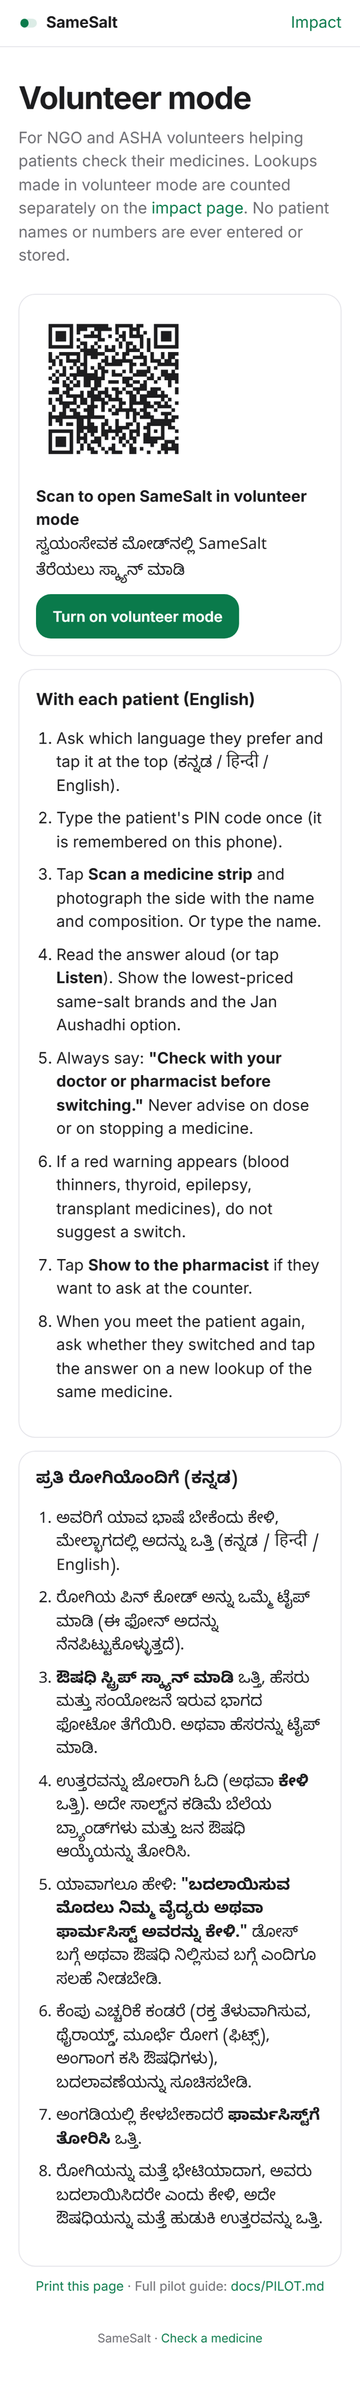
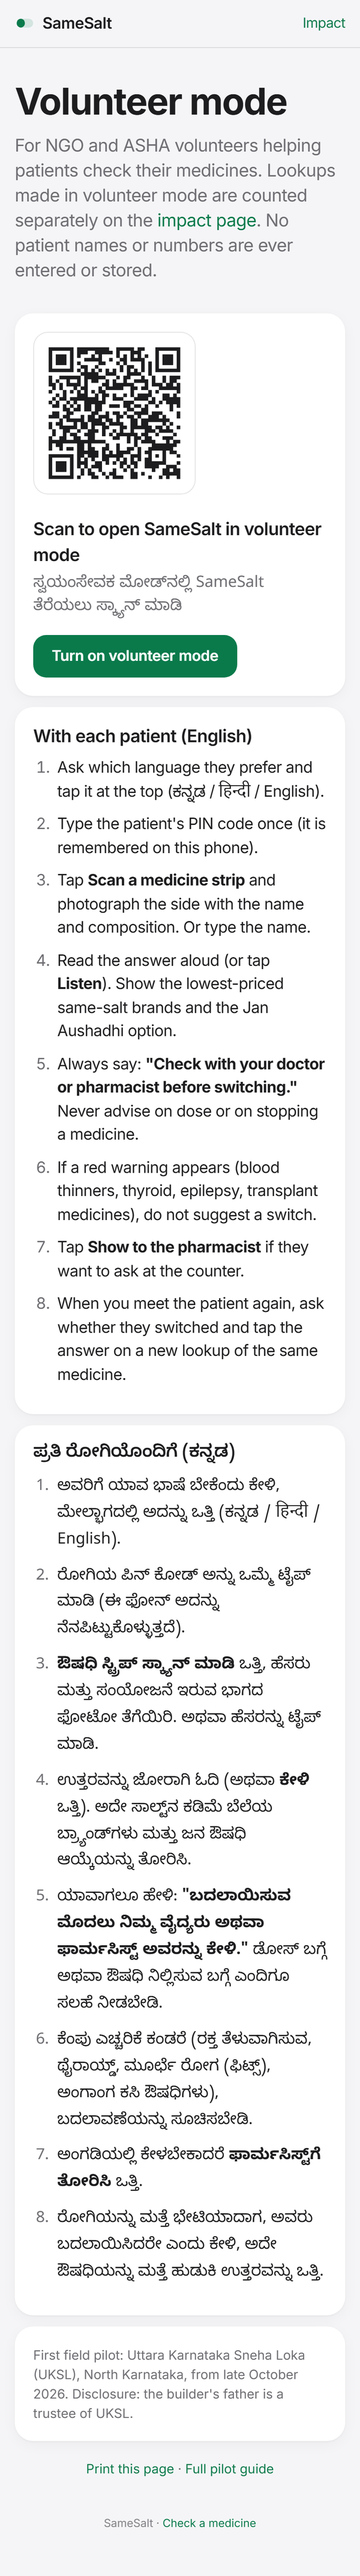
docs: Jan Aushadhi data loaded (dates, counts), demo video, new screenshots
Claude-Session: https://claude.ai/code/session_01YJSSSXgu8NU7GSSJzc8DWD

diff --git a/README.md b/README.md
@@ -2,11 +2,13 @@
 
 **Photograph a medicine strip (or type its name) in English, ಕನ್ನಡ or हिन्दी. SameSalt shows every brand with exactly the same salt, strength and form, ranked by price, the Jan Aushadhi generic and its government MRP, and the nearest Jan Aushadhi Kendra. Every lookup is counted anonymously on a public impact page.**
 
-**Live app:** https://samesalt-agent.samesalt-worker.workers.dev · **Impact dashboard:** https://samesalt-agent.samesalt-worker.workers.dev/impact · **Volunteer mode + QR:** https://samesalt-agent.samesalt-worker.workers.dev/volunteer
+**Demo video (2:37):** https://youtu.be/FBDnSkhKEH0 · **Live app:** https://samesalt-agent.samesalt-worker.workers.dev · **Impact dashboard:** https://samesalt-agent.samesalt-worker.workers.dev/impact · **Volunteer mode + QR:** https://samesalt-agent.samesalt-worker.workers.dev/volunteer
 
 Entry for **Code for a Billion — Bharat Agentic-AI Hackathon 2026**, Health track ([submission #24](https://github.com/karlmehta/code-for-a-billion/issues/24)). Built in **AgentFoundry** ([how](#how-agentfoundry-was-used)). Field pilot planned with **Uttara Karnataka Sneha Loka (UKSL)**, North Karnataka, from late October 2026 ([pilot guide](docs/PILOT.md)).
 
-![SameSalt on a phone: home, the same-salt list for Dolo 650, and the answer in Kannada](docs/img/screens.png)
+![SameSalt on a phone: home, the result for Dolo 650 with the saving, and the answer in Kannada](docs/img/screens.png)
+
+[![Watch the 2:37 demo on YouTube](https://img.youtube.com/vi/FBDnSkhKEH0/hqdefault.jpg)](https://youtu.be/FBDnSkhKEH0)
 
 ---
 
@@ -24,10 +26,10 @@ The government's own Jan Aushadhi Sugam app searches generics by name. SameSalt 
 1. **Scan or type.** A photo of the strip is read by a vision model (brand, salts, strengths, form, release type). Typed names work in any script (`ಡೋಲೋ 650`, `पैन 40 टैबलेट`, `dolo650`).
 2. **Exact-composition match.** Two products match **only** if salts, strengths, dosage form and release type are all identical (`amoxicillin:500mg+clavulanic acid:125mg|tablet`). 650 mg never matches 500 mg; SR never matches plain; paracetamol + caffeine never matches paracetamol.
 3. **Ranked by price per tablet**, with "save up to ₹X on one pack".
-4. **Jan Aushadhi generic + official MRP** for the same key, from the official PMBJP list.
-5. **Nearest Jan Aushadhi Kendra** by PIN code or location, from the official Kendra list.
+4. **Jan Aushadhi generic + official MRP** for the same key, from the official PMBJP product list (downloaded 11 Oct 2026). Dolo 650 → Paracetamol Tablets IP 650 mg, ₹15.47 for 15.
+5. **Nearest Jan Aushadhi Kendra** by PIN code, from the official list of 19,986 Kendras (downloaded 12 Oct 2026), shown by Kendra code and address.
 6. **Answer in English, Kannada or Hindi**, with a Listen button (device text-to-speech).
-7. **Safety:** same salt + strength + form only; every answer ends with "check with your doctor or pharmacist before switching"; **never** dosage advice; narrow-therapeutic-index medicines (warfarin, thyroxine, antiepileptics, transplant drugs, lithium, digoxin…) get a red warning and **no** cheaper list.
+7. **Safety:** same salt + strength + form only; every answer ends with "check with your doctor or pharmacist before switching"; **never** dosage advice; narrow-therapeutic-index medicines (warfarin, thyroxine, antiepileptics, transplant drugs, lithium, digoxin…) get a red warning and **no** cheaper option of any kind (no brand list, no Jan Aushadhi price).
 8. **Show to the pharmacist** card, **"did you switch?"** tap, and **volunteer mode** with a printable QR page for NGO volunteers.
 
 ## Architecture
@@ -64,15 +66,15 @@ The agent is a **fixed, auditable tool plan** — `read_strip → identify_medic
 | `public/` | the web app, `/impact`, `/volunteer` |
 | `data/` | builds D1 seed SQL from SameSalt's database and the official PMBJP lists |
 | `.codenow/` | AgentFoundry project: agent manifest, prompts, evals + results, run traces |
-| `tools/demo-video/` | records the live app on a phone viewport (flagged as test traffic) and composes the captioned demo video |
+| `tools/demo-video/` | `record.py` records the live app on a phone viewport (2x DevTools screencast, flagged as test traffic); `compose.py` lays out the cards and captions in HTML and assembles the [demo video](https://youtu.be/FBDnSkhKEH0) with ffmpeg |
 
 **Cost: ₹0.** Cloudflare Workers + D1 + Workers AI free allocations; no paid keys. If the daily free vision quota runs out, the phone reads the photo itself with Tesseract.js and the same tools run on that text.
 
 ## Accuracy (tests and evals)
 
-- **Unit tests:** `node --import ./test/register-md.mjs --test test/normalize.test.mjs test/tools.test.mjs` → **26/26 pass** — strength normalisation (650 mg = 0.65 g = 650 MG), multi-salt order and spelling (Amoxycillin/Amoxicillin), SR vs plain, combinations vs single salts, NTI handling, PIN/location Kendra search, savings, the three-language answer, and the whole agent with a stubbed vision model. `python test/test_build_ja.py` checks the PMBJP-name parser.
+- **Unit tests:** `node --import ./test/register-md.mjs --test test/normalize.test.mjs test/tools.test.mjs` → **29/29 pass** — strength normalisation (650 mg = 0.65 g = 650 MG), multi-salt order and spelling (Amoxycillin/Amoxicillin), SR vs plain, combinations vs single salts, NTI handling, PIN/location Kendra search, savings, the three-language answer, typed generic combinations ("amoxicillin clavulanic acid 500 125 tablet"), and the whole agent with a stubbed vision model. `python test/test_build_ja.py` checks the PMBJP-name parser.
 - **Key parity:** the JavaScript key builder reproduces the Python pipeline's key on **2,000/2,000** randomly sampled database rows.
-- **End-to-end evals against the live deployment** (`node evals/run_evals.mjs`, results in [`evals/RESULTS.md`](evals/RESULTS.md)): **23/23** — 15 strip photos, 3 deliberately hard photos (heavy blur, cropped, a brand not in the database, which is matched by its printed composition) and 5 typed queries including Kannada and Hindi script. Median latency ≈ 1.7-2.7 s per lookup. One earlier run had a transient failure on the very first request after a deploy; the app and the eval runner now retry once.
+- **End-to-end evals against the live deployment** (`node evals/run_evals.mjs`, results in [`evals/RESULTS.md`](evals/RESULTS.md)): **23/23** — 15 strip photos, 3 deliberately hard photos (heavy blur, cropped, a brand not in the database, which is matched by its printed composition) and 5 typed queries including Kannada and Hindi script. Last run 12 Oct 2026, after the Jan Aushadhi data was loaded: 23/23, median 2.4 s per lookup. One earlier run had a transient failure on the very first request after a deploy; the app and the eval runner now retry once.
 - **Prompt eval in AgentFoundry:** the `understand_text` prompt passes **12/12** cases (Kannada/Hindi/Hinglish brands, "no medicine" text, prompt injection, JSON-only) on AF's served model.
 - **Honest limits:** all eval photos are **synthetic renders** (`evals/render_strips.py`), cleaner than real foil strips under shop lighting; real-world accuracy will be lower and will be measured in the pilot. Brand prices are **printed MRPs from a November 2022 dataset** — they show relative price differences well, but today's shelf price may differ.
 
@@ -81,16 +83,16 @@ The agent is a **fixed, auditable tool plan** — `read_strip → identify_medic
 | Data | Source | Date |
 |---|---|---|
 | 246,068 brands: name, manufacturer, composition, printed MRP, pack | [A-Z Medicine Dataset of India](https://www.kaggle.com/datasets/shudhanshusingh/az-medicine-dataset-of-india) (Shudhanshu Singh, CC BY-SA 4.0), normalised by [SameSalt's pipeline](https://github.com/darshanrajagoli/samesalt/tree/main/pipeline) | Nov 2022 |
-| Jan Aushadhi product basket + MRPs | PMBI / Dept. of Pharmaceuticals: [janaushadhi.gov.in — product MRP list](https://janaushadhi.gov.in/product-portfolio/product-mrp-list) | **pending load** — see below |
-| Jan Aushadhi Kendra list | PMBI: [janaushadhi.gov.in — locate Kendra](https://janaushadhi.gov.in/locate-kendra) | **pending load** — see below |
+| Jan Aushadhi product list + MRPs: 2,439 products, **1,914 loaded** | PMBI / Dept. of Pharmaceuticals: [janaushadhi.gov.in — product MRP list](https://janaushadhi.gov.in/product-portfolio/product-mrp-list), file in [`data/raw/`](data/raw/) | downloaded 11 Oct 2026 |
+| Jan Aushadhi Kendra list: 35 states/UTs, **19,986 Kendras loaded** | PMBI: [janaushadhi.gov.in — locate Kendra](https://janaushadhi.gov.in/locate-kendra), files in [`data/raw/`](data/raw/) | downloaded 12 Oct 2026 |
 
-**Status of the Jan Aushadhi data (honest):** the loader (`data/build_ja.py`, with tests) and the app paths are done and tested with fixtures, but the official lists are served from `janaushadhi.gov.in:8443`, a port that the network this was built on blocks. Until the lists are loaded, the app says "Jan Aushadhi prices are not loaded yet" instead of showing anything made up. Loading them is two commands once the files are downloaded (below), and the app shows the list date next to every Jan Aushadhi price.
+**Jan Aushadhi data (loaded, live):** the official PMBJP product list and the per-state Kendra lists are loaded into D1, and the app shows the list date under every Jan Aushadhi price and Kendra list (`/api/health` shows the dates and counts; so does the [impact page](https://samesalt-agent.samesalt-worker.workers.dev/impact)). Of 2,439 products, **1,379** map to an exact branded composition, **535** are parsed but have no branded equivalent, and **525** (multivitamins, devices, unclear strengths) are left out on purpose rather than guessed (`data/build_ja.py`, tested by `test/test_build_ja.py`). The Kendra list has PIN codes but no coordinates, so Kendras are found by PIN (same PIN first, then the nearest PIN codes); Haryana's list is empty on the official site itself. The Kendra list's name column is often the licensee's personal name, so the app shows a Kendra by its PMBJK code and address instead.
 
 ## Privacy
 
 - Photos are sent to the Worker, read in memory, and **never stored**.
 - The impact log stores, per lookup: time, matched medicine, per-unit prices (scanned, cheapest same-salt, Jan Aushadhi), the saving for one pack, language, the **first 3 digits** of the PIN code if typed, self/volunteer mode, a random per-browser token (not derived from the device) for counting unique users, and the optional "did you switch?" answer.
-- **No names, phone numbers, IP addresses, user agents or precise locations.** "Use my location" is rounded to ~1 km on the phone, used for that lookup only, and not stored.
+- **No names, phone numbers, IP addresses, user agents or precise locations.**
 - Test traffic (evals, demo recordings, developer checks: `x-samesalt-test: 1`, `?test=1`, or localhost) is flagged `is_test = 1` and **excluded from every number on [/impact](https://samesalt-agent.samesalt-worker.workers.dev/impact)**; the page shows how many test lookups were excluded.
 
 ## How AgentFoundry was used
@@ -123,11 +125,12 @@ npx wrangler d1 migrations apply samesalt-agent --remote
 cd .. && python data/build_d1.py --db ../samesalt/assets/samesalt.db --out data/build
 cd worker && for f in ../data/build/*.sql; do npx wrangler d1 execute samesalt-agent --remote --file "$f" -y; done
 
-# Jan Aushadhi data: download the product MRP list and the Kendra list from janaushadhi.gov.in
-# (PDF or the JSON the site loads) into data/raw/, then:
-cd .. && python data/build_ja.py --products data/raw/products.pdf --kendras data/raw/kendras.pdf \
-  --list-date 2026-10-20 --medicines-db ../samesalt/assets/samesalt.db
-cd worker && for f in ja kendras meta-ja; do npx wrangler d1 execute samesalt-agent --remote --file ../data/build/$f.sql -y; done
+# Jan Aushadhi data: the official files are in data/raw/ (see data/raw/README.md)
+cd .. && python data/build_ja.py --products data/raw/ja_products_2026-10-11.csv --list-date 2026-10-11 \
+  --medicines-db ../samesalt/assets/samesalt.db
+cd worker && npx wrangler d1 execute samesalt-agent --remote --file ../data/build/ja.sql -y
+cd .. && python data/build_ja.py --kendras data/raw/kendras_2026-10-12 --list-date 2026-10-12
+cd worker && for f in kendras meta-ja; do npx wrangler d1 execute samesalt-agent --remote --file ../data/build/$f.sql -y; done
 
 npx wrangler dev        # local (all local traffic is flagged as test)
 npx wrangler deploy     # https://samesalt-agent.<your-subdomain>.workers.dev
